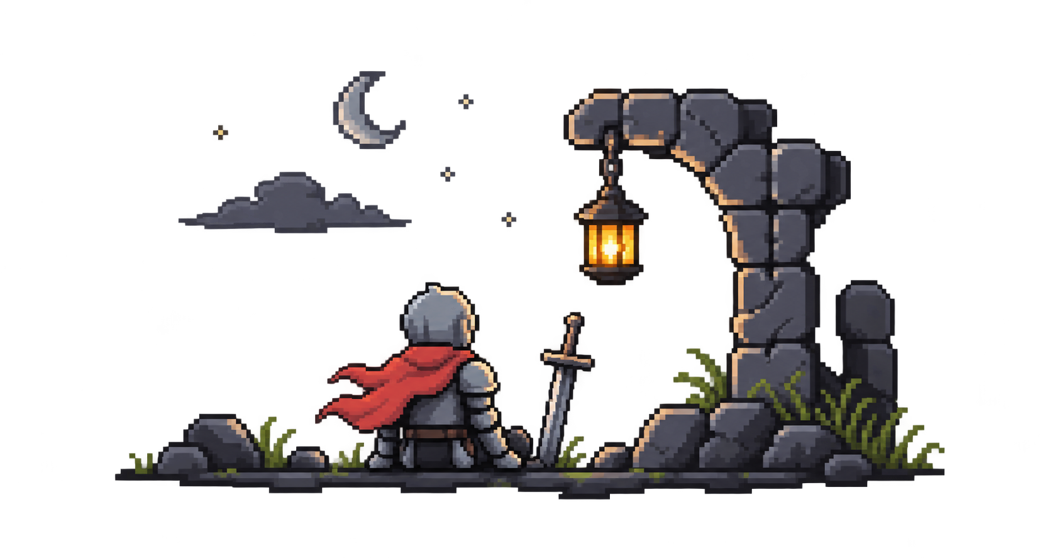
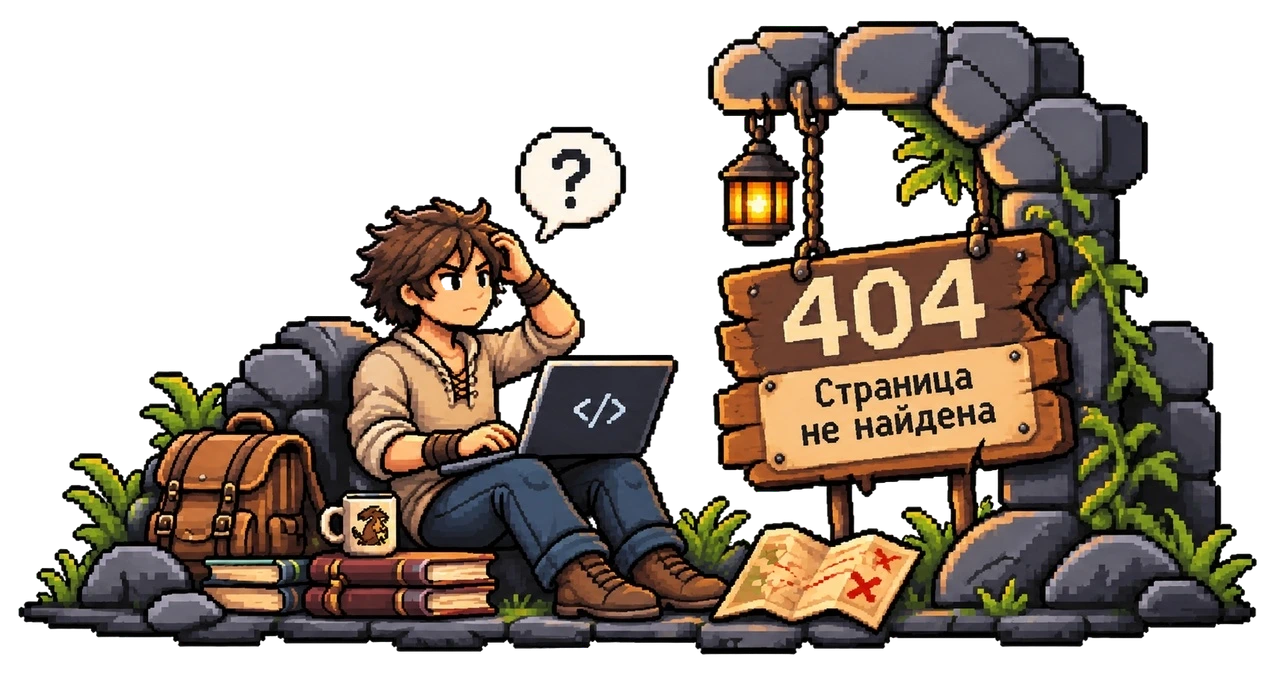
Добавил страницы 404, 500, 502

diff --git a/App/Views/Public/Status/500.php b/App/Views/Public/Status/500.php
@@ -1,13 +1,16 @@
-<div class="d-flex align-items-center justify-content-center bg-light">
-	<div class="text-center p-5">
-		<div class="display-1 fw-bold text-primary mb-4">500</div>
-		<h1 class="display-4 fw-normal text-muted mb-3">Внутренняя ошибка сервера</h1>
-		<p class="lead mb-4 opacity-75">К сожалению, со стороны сервера возникли ошибки. Зайдите позже или обратитесь к администратору!</p>
-		<div class="mt-5">
-			<small class="text-muted">
-				<i class="bi bi-search me-1"></i>
-				Устраним все ошибки в ближайшее время!
-			</small>
+<section class="light-page-hero status-page">
+	<div class="site-container status-page__container">
+		<div>
+			<p class="status-page__code">500</p>
+			<h1 class="page-title">Внутренняя ошибка сервера</h1>
+			<p class="light-page-hero__text">
+				На сервере произошла непредвиденная ошибка. Попробуйте обновить страницу немного позже.
+			</p>
+			<div class="light-page-hero__actions">
+				<a class="button button_primary" href="/">Главная</a>
+				<a class="button button_secondary" href="/" onclick="if (history.length > 1) { history.back(); return false; }">Назад</a>
+			</div>
 		</div>
+		<img class="status-page__illustration" src="/Templates/Light/img/500.webp" width="1040" height="558" alt="">
 	</div>
-</div>
+</section>

diff --git a/App/Controllers/Public/StatusController.php b/App/Controllers/Public/StatusController.php
@@ -26,16 +26,33 @@ class StatusController extends BaseController
 		Template::getInstance()->showFooter();
 	}
 
-	public function page500()
+	public function page500() : void
 	{
 		$this->setSeo(SeoContext::custom('/', [
 			'title' => 'Внутренняя ошибка сервера',
 			'robots_index' => false,
 		]));
 		Template::getInstance()->setParam('title', 'Внутренняя ошибка сервера');
+		Template::getInstance()->setParam('show_contact_cta', false);
+		Template::getInstance()->setParam('body_class', 'status-layout');
 
-		\Modules\Main\Template::getInstance()->showHeader();
+		Template::getInstance()->showHeader();
 		$this->render('500');
-		\Modules\Main\Template::getInstance()->showFooter();
+		Template::getInstance()->showFooter();
+	}
+
+	public function page502() : void
+	{
+		$this->setSeo(SeoContext::custom('/', [
+			'title' => 'Сервис временно недоступен',
+			'robots_index' => false,
+		]));
+		Template::getInstance()->setParam('title', 'Сервис временно недоступен');
+		Template::getInstance()->setParam('show_contact_cta', false);
+		Template::getInstance()->setParam('body_class', 'status-layout');
+
+		Template::getInstance()->showHeader();
+		$this->render('502');
+		Template::getInstance()->showFooter();
 	}
 }

diff --git a/App/Views/Public/Status/502.php b/App/Views/Public/Status/502.php
@@ -1,0 +1,16 @@
+<section class="light-page-hero status-page">
+	<div class="site-container status-page__container">
+		<div>
+			<p class="status-page__code">502</p>
+			<h1 class="page-title">Сервис временно недоступен</h1>
+			<p class="light-page-hero__text">
+				Сервер временно не может обработать запрос. Попробуйте обновить страницу немного позже.
+			</p>
+			<div class="light-page-hero__actions">
+				<a class="button button_primary" href="/">Главная</a>
+				<a class="button button_secondary" href="/" onclick="if (history.length > 1) { history.back(); return false; }">Назад</a>
+			</div>
+		</div>
+		<img class="status-page__illustration" src="/Templates/Light/img/502.webp" width="1040" height="558" alt="">
+	</div>
+</section>

diff --git a/App/Routes/web.php b/App/Routes/web.php
@@ -23,4 +23,6 @@ $router->post('/blog/{topic}/{article}/file/', \Controllers\Public\BlogControlle
 $router->get('/certificates/', \Controllers\Public\CertificatesController::class,  'index');
 $router->get('/contacts/', \Controllers\Public\ContactsController::class,  'index');
 $router->get('/cookies/', \Controllers\Public\CookiesController::class, 'index');
+$router->get('/errors/500/', \Controllers\Public\StatusController::class, 'page500');
+$router->get('/errors/502/', \Controllers\Public\StatusController::class, 'page502');
 $router->get('/auth/logout/', \Controllers\AuthController::class, 'logout');
